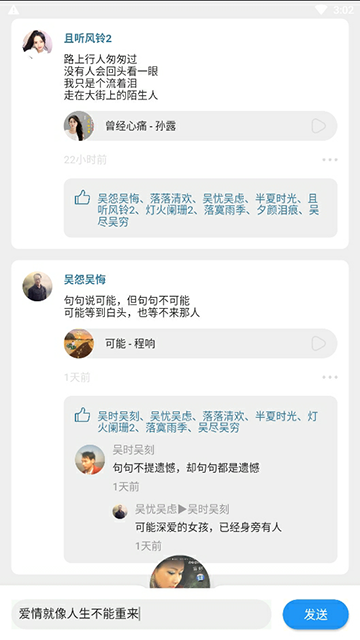
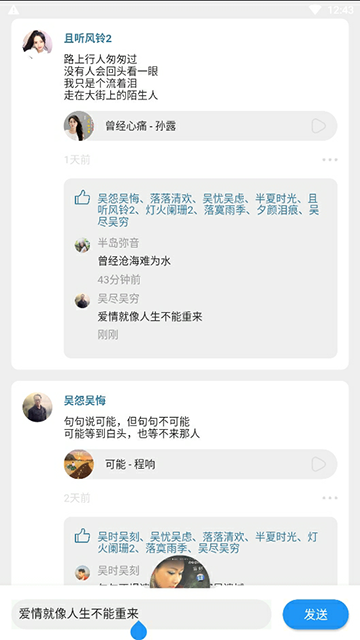
修改音乐圈评论问题

diff --git a/lib/music/pages/MusicCirclePage.dart b/lib/music/pages/MusicCirclePage.dart
@@ -160,6 +160,8 @@ class _MusicCirclePageState extends State<MusicCirclePage>
                 child: RaisedButton(
                   color: Theme.of(context).accentColor,
                   onPressed: () {
+                    if(loading)return;
+                    loading = true;
                     CommentModel mCommentModel = CommentModel(
                         type:"music_circle",
                         relationId:circleModel.id,
@@ -167,15 +169,19 @@ class _MusicCirclePageState extends State<MusicCirclePage>
                         topId:firstCommentModel != null ? firstCommentModel.id : null,
                         parentId:replyCommentModel != null ? replyCommentModel.id : null
                     );
-                    if(loading)return;
-                    loading = true;
                     insertCommentService(mCommentModel).then((value){
                       loading = false;
                       setState(() {
-                        circleModel.circleComments.add(CommentModel.fromJson(value.data));
+                        if(firstCommentModel != null){
+                            firstCommentModel.replyList.add(CommentModel.fromJson(value.data));
+;                        }else{
+                            circleModel.circleComments.add(CommentModel.fromJson(value.data));
+                        }
                       });
+                      firstCommentModel = replyCommentModel = null;
                       inputOverlayEntry.remove();
                       inputOverlayEntry = null;
+                      inputController.text = "";
                     });
                   },
                   child: Text(
@@ -480,7 +486,7 @@ class _MusicCirclePageState extends State<MusicCirclePage>
           circleComments.where((element) => element.topId == null).toList();
       return Column(
           children: buildCircleCommentItems(
-              topComments, circleComments, circleLikes, null));
+              topComments, circleLikes));
     } else {
       return SizedBox();
     }
@@ -488,9 +494,7 @@ class _MusicCirclePageState extends State<MusicCirclePage>
 
   List<Widget> buildCircleCommentItems(
       List<CommentModel> circleComments,
-      List<CommentModel> allCircleComments,
-      List<CircleLikeModel> circleLikes,
-      CommentModel replyCommentModel) {
+      List<CircleLikeModel> circleLikes) {
     if (circleComments.length == 0) return [];
     List<Widget> circleCommentWidget = [
       SizedBox(
@@ -528,11 +532,11 @@ class _MusicCirclePageState extends State<MusicCirclePage>
                     child: Text(circleComment.content),
                     onTap: () {
                       setState(() {
-                        if(replyCommentModel == null){// 如果不是二级评论
+                        if(circleComment.topId == null){// 如果不是二级评论
                           replyCommentModel = firstCommentModel = circleComment;
                         }else{// 如果是二级评论
                           replyCommentModel = circleComment;
-                          firstCommentModel = replyCommentModel;
+                          firstCommentModel = circleModel.circleComments.firstWhere((element) => element.id == replyCommentModel.topId);
                         }
                         buildCommentInputDailog();
                       });
@@ -543,11 +547,8 @@ class _MusicCirclePageState extends State<MusicCirclePage>
                       style: TextStyle(color: ThemeColors.subTitle)),
                   SizedBox(height: ThemeSize.smallMargin),
                   ...buildCircleCommentItems(
-                      findSubCommentsByTopId(
-                          allCircleComments, circleComment.id),
-                      [],
-                      [],
-                      circleComment)
+                      circleComment.replyList,
+                      [])
                 ])
           ]))
         });

diff --git a/lib/music/service/serverMethod.dart b/lib/music/service/serverMethod.dart
@@ -244,6 +244,7 @@ Future<ResponseModel<int>> deleteLikeService(
 Future<ResponseModel> insertCommentService(
     CommentModel commentModel) async {
   try {
+    print(commentModel.toMap());
     Response response = await dio.post(servicePath['insertComment'],
         data: commentModel.toMap());
     return ResponseModel.fromJson(response.data);

diff --git a/lib/movie/model/CommentModel.dart b/lib/movie/model/CommentModel.dart
@@ -52,7 +52,9 @@ class CommentModel{
         replyUserId:json['replyUserId'],
         replyUserName:json['replyUserName'],
         replyPageNum:0,
-        replyList:[]
+        replyList: ((json['replyList'] == null ? [] : json['replyList'])as List).map((item){
+          return CommentModel.fromJson(item);
+        }).toList()
     );
   }
 
